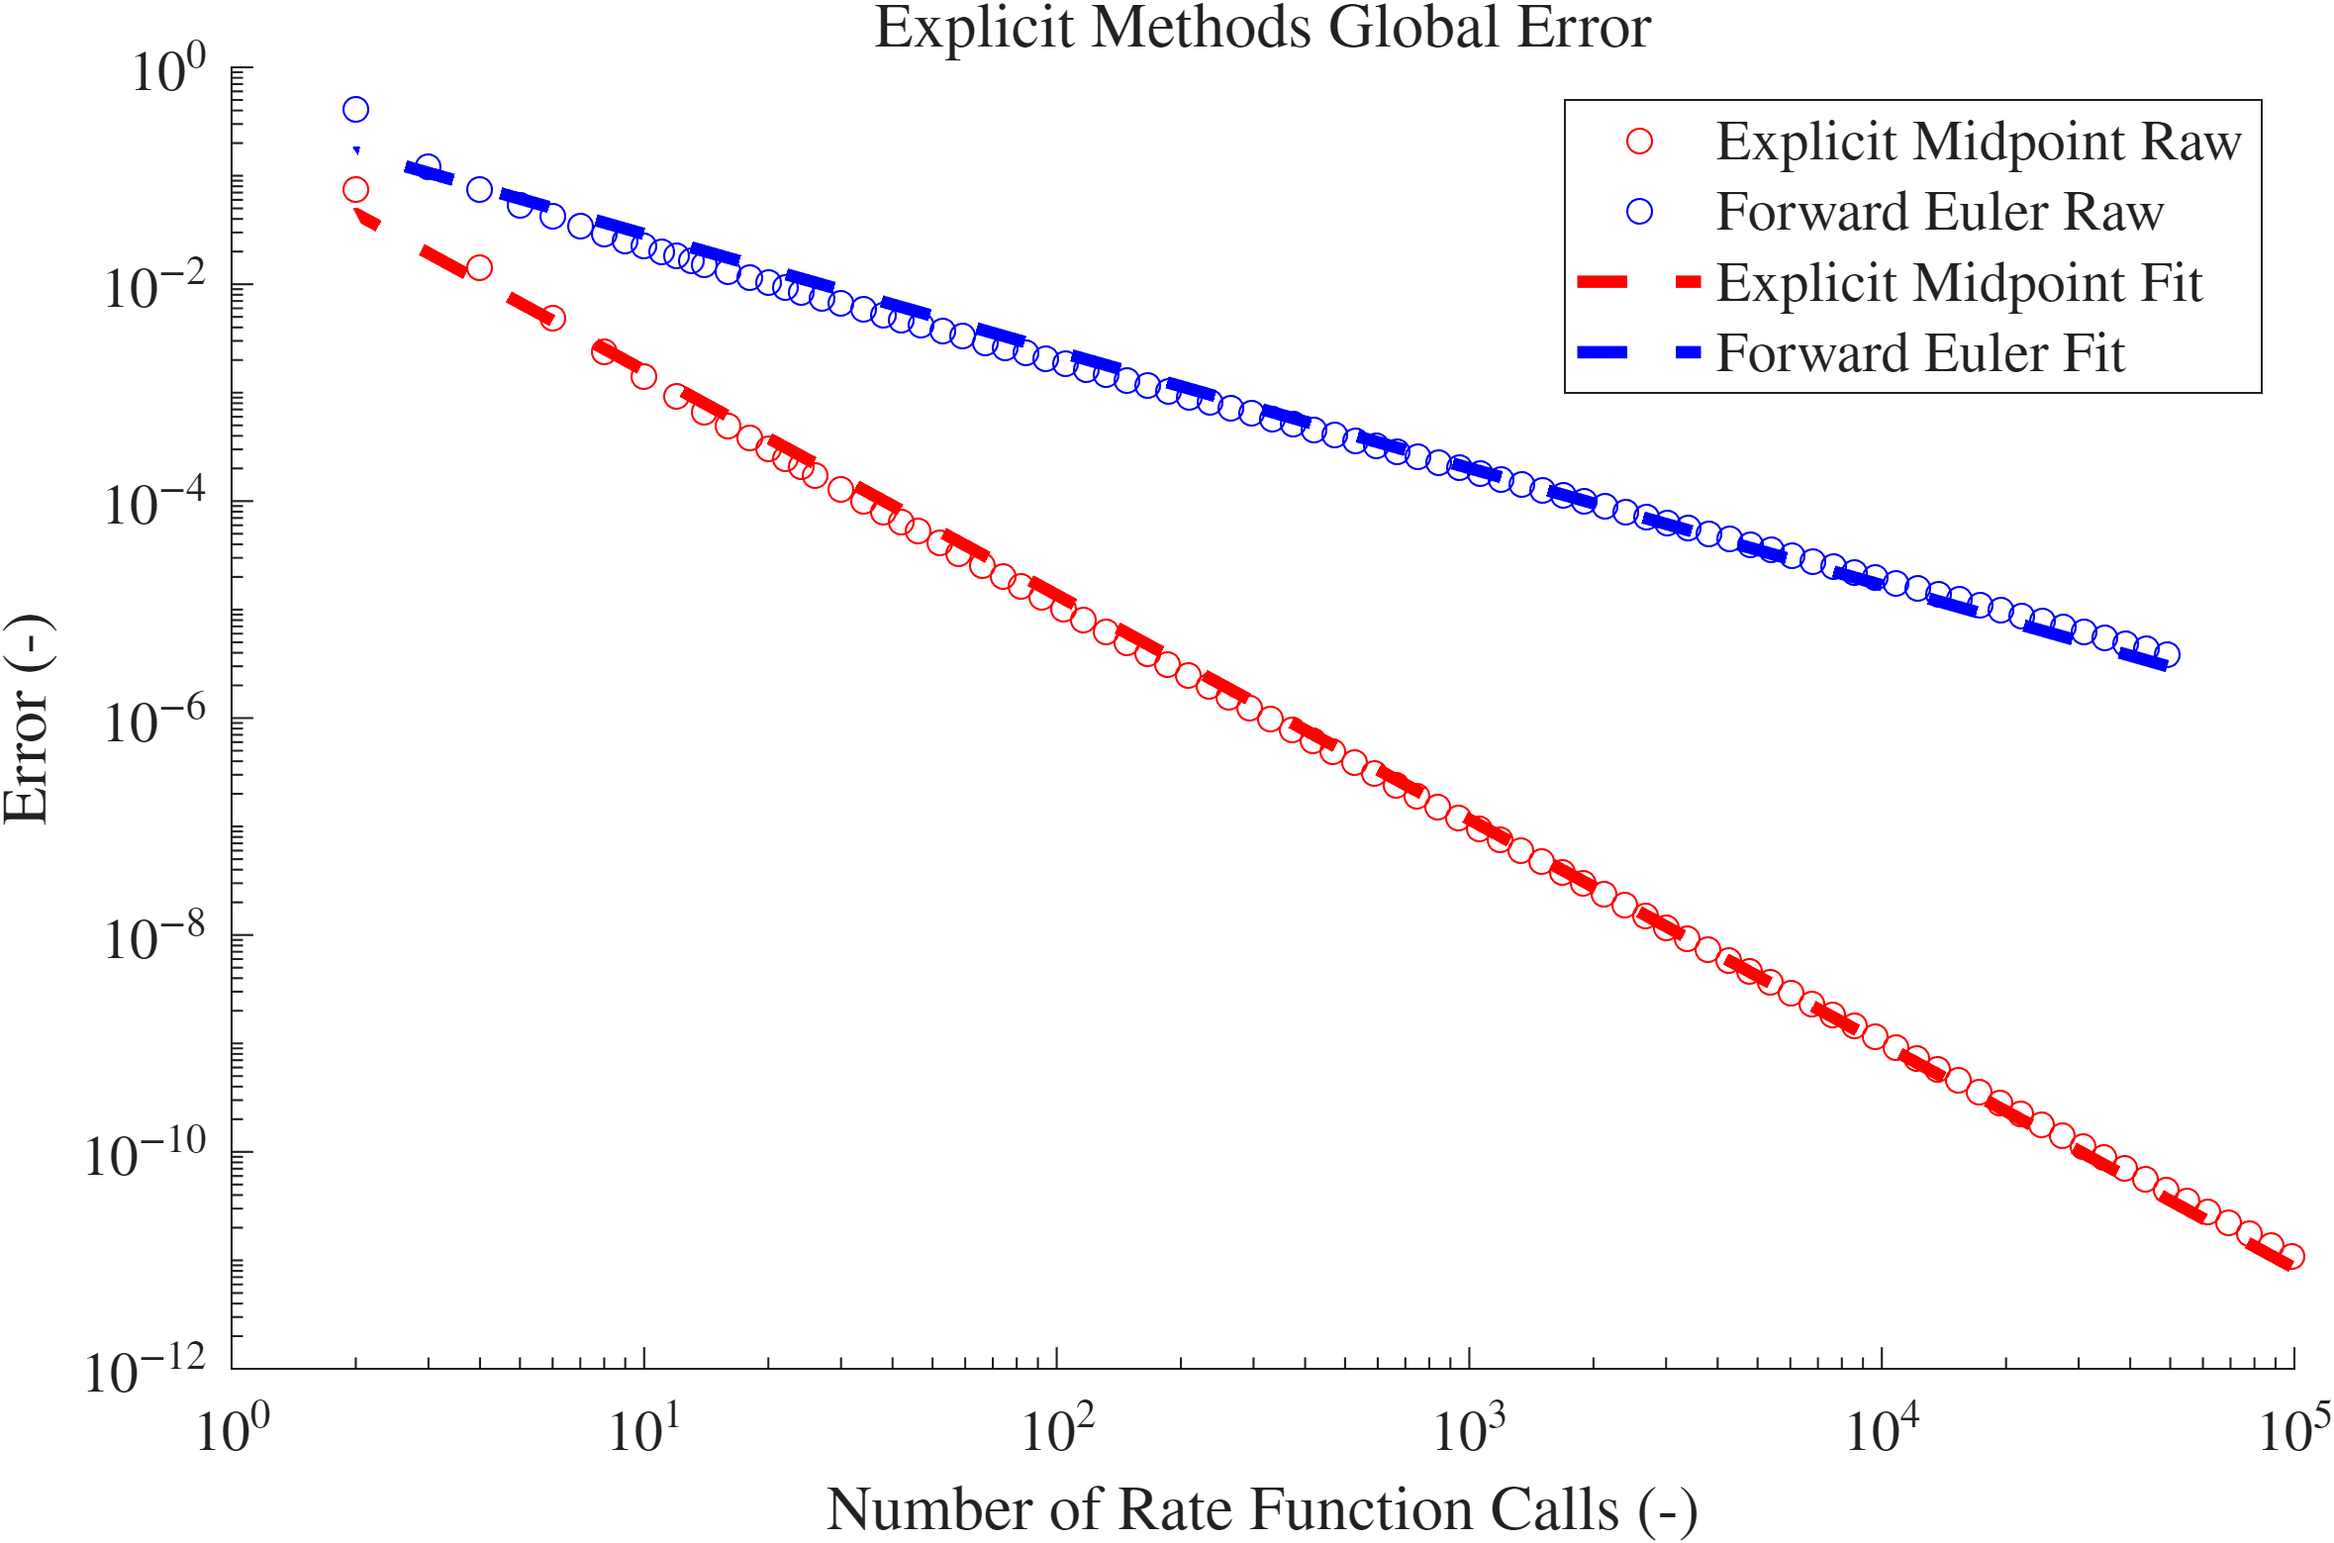
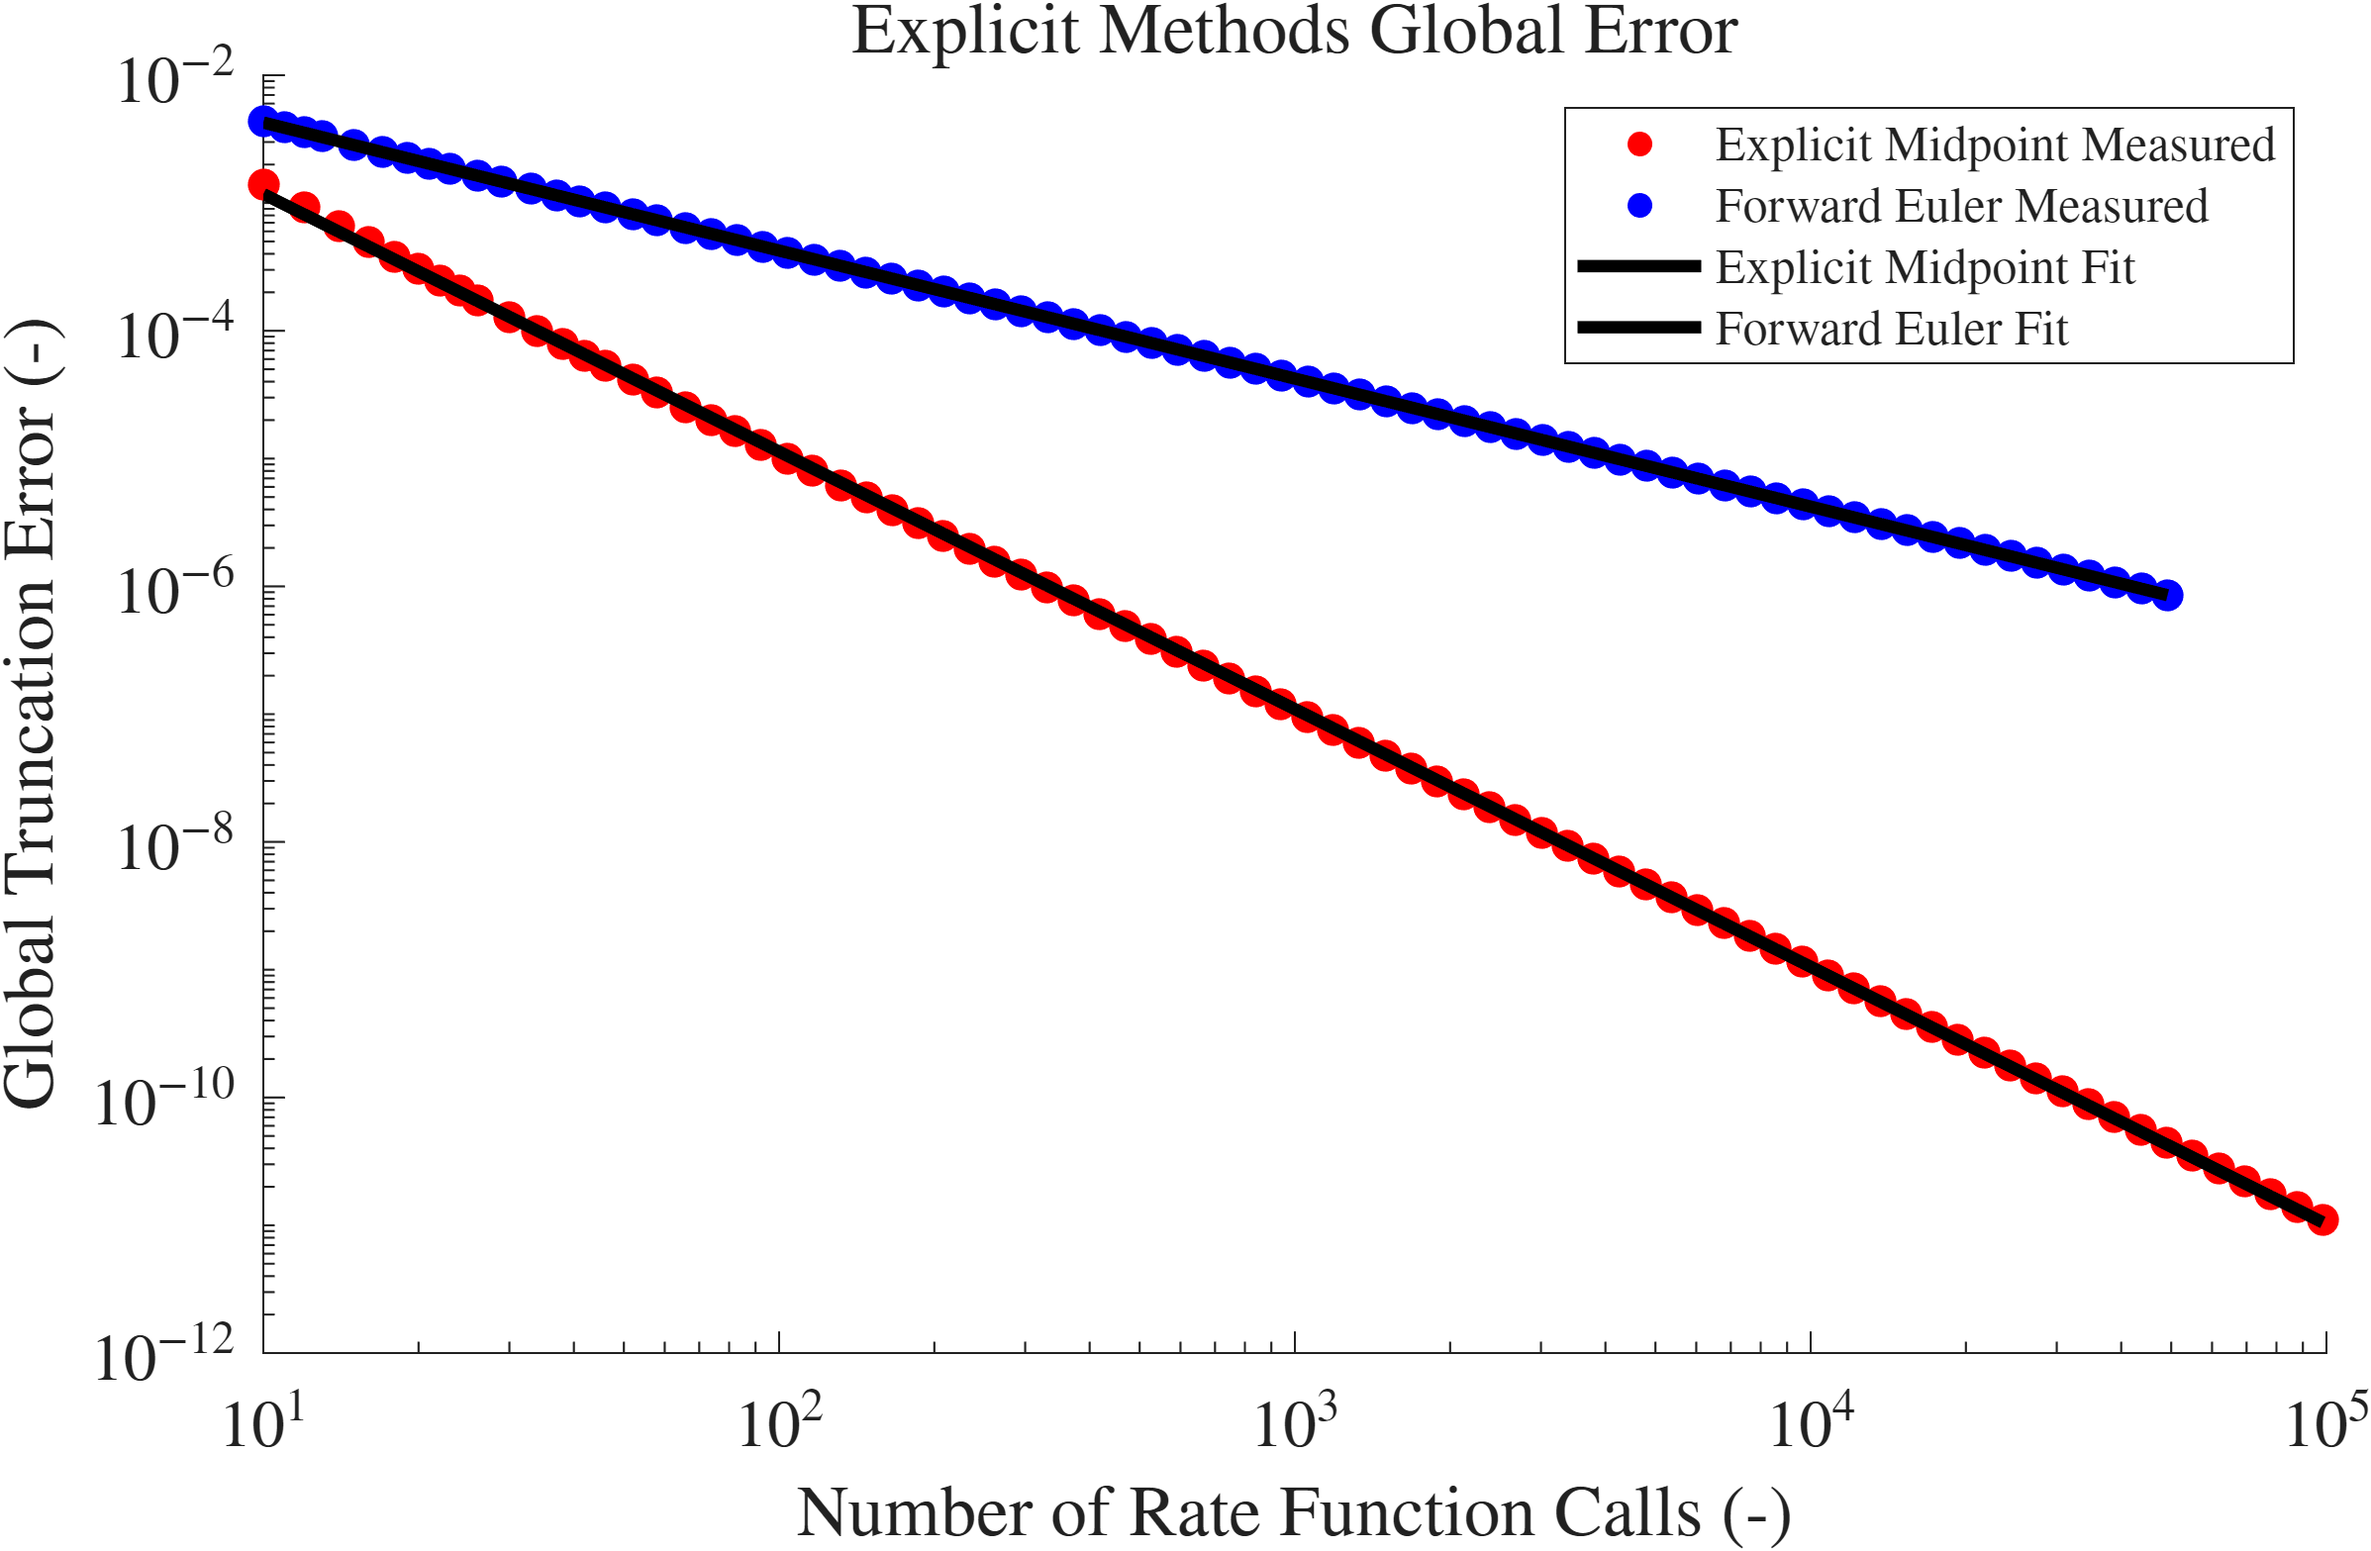
global trunc rate call fit line aaaaaa

diff --git a/global_trunc_error.m b/global_trunc_error.m
@@ -46,6 +46,15 @@ filtered_fe_err = func1_fe_err_list(1:filt_length);
 filtered_mp_err = func1_mp_err_list(1:filt_length);
 
 
+
+filtered_fe_nums = fe_evals_list(fe_evals_list >= 1e1);
+filt_fe_num_len = length(filtered_fe_nums);
+filtered_mp_nums = mp_evals_list(mp_evals_list >= 1e1);
+filt_mp_num_len = length(filtered_mp_nums);
+
+filt_mp_error_2 = func1_mp_err_list(1:filt_mp_num_len);
+filt_fe_error_2 = func1_fe_err_list(1:filt_fe_num_len);
+
 mp_p = polyfit(log(filtered_h_step), log(filtered_mp_err), 1)
 fe_p = polyfit(log(filtered_h_step), log(filtered_fe_err), 1)
 
@@ -55,17 +64,17 @@ f_func1_fe = exp(polyval(fe_p, log(filtered_h_step)));
 
 
 % 
-% func1_mp_p = polyfit(log(h_step), log(func1_mp_err_list), 1)
-% f_func1_mp = exp(polyval(func1_mp_p, log(h_step)));
-% 
-% func1_fe_p = polyfit(log(h_step), log(func1_fe_err_list), 1)
-% f_func1_fe = exp(polyval(func1_fe_p, log(h_step)));
-% 
-% mp_eval_p = polyfit(log(mp_evals_list), log(mp_err_list), 1)
-% f_mp = exp(polyval(mp_eval_p, log(mp_evals_list)));
-% 
-% fe_eval_p = polyfit(log(fe_evals_list), log(fe_err_list), 1)
-% f_fe = exp(polyval(fe_eval_p, log(fe_evals_list)));
+%func1_mp_p = polyfit(log(h_step), log(func1_mp_err_list), 1)
+%f_func1_mp = exp(polyval(func1_mp_p, log(h_step)));
+
+%func1_fe_p = polyfit(log(h_step), log(func1_fe_err_list), 1)
+%f_func1_fe = exp(polyval(func1_fe_p, log(h_step)));
+
+mp_eval_p = polyfit(log(filtered_mp_nums), log(filt_mp_error_2), 1)
+f_mp = exp(polyval(mp_eval_p, log(filtered_mp_nums)));
+
+fe_eval_p = polyfit(log(filtered_fe_nums), log(filt_fe_error_2), 1)
+f_fe = exp(polyval(fe_eval_p, log(filtered_fe_nums)));
 
 % func2_mp_p = polyfit(log(h_step), log(func2_mp_err_list), 1)
 % f_func2_mp = exp(polyval(func2_mp_p, log(h_step)));
@@ -75,45 +84,45 @@ f_func1_fe = exp(polyval(fe_p, log(filtered_h_step)));
 
 
 
+% figure();
+% scatter(filtered_h_step, filtered_mp_err, 60,'filled',"r")
+% hold on
+% scatter(filtered_h_step, filtered_fe_err,60,'filled',"b")
+% plot(filtered_h_step, f_func1_mp, '-', LineWidth=3, Color="k")
+% plot(filtered_h_step, f_func1_fe, '-', LineWidth=3, Color="k")
+% hold off
+% set(gca,'xscale','log')
+% set(gca,'yscale','log')
+% legend(["Explicit Midpoint Measured","Forward Euler Measured", "Explicit Midpoint Fit", "Forward Euler Fit"], Location = "northwest", Interpreter="latex", FontSize=14)
+% xlabel("Time Step - $h$ (-)", Interpreter="latex", FontSize=14)
+% ylabel("Global Truncation Error (-)", Interpreter="latex", FontSize=14)
+% axis([0 4*pi -1.5 1.5])
+% title("Global Truncation Error vs Step Size - Explicit Methods", Interpreter='latex', FontSize=18)
+% ax = gca;
+% ax.FontSize = 16;
+% ax.XAxis.TickLabelInterpreter = 'Latex';
+% ax.YAxis.TickLabelInterpreter = 'Latex';
+% exportgraphics(gca, 'plots/explicit_methods_global_error_testfunc1.png', 'Resolution',300)
+
 figure();
-scatter(filtered_h_step, filtered_mp_err, 60,'filled',"r")
+scatter(filtered_mp_nums, filt_mp_error_2, 60, 'filled', "r")
 hold on
-scatter(filtered_h_step, filtered_fe_err,60,'filled',"b")
-plot(filtered_h_step, f_func1_mp, '-', LineWidth=3, Color="k")
-plot(filtered_h_step, f_func1_fe, '-', LineWidth=3, Color="k")
+scatter(filtered_fe_nums, filt_fe_error_2, 60, 'filled',"b")
+plot(filtered_mp_nums, f_mp, '-', LineWidth=3, Color="k")
+plot(filtered_fe_nums, f_fe, '-', LineWidth=3, Color="k")
 hold off
 set(gca,'xscale','log')
 set(gca,'yscale','log')
-legend(["Explicit Midpoint Measured","Forward Euler Measured", "Explicit Midpoint Fit", "Forward Euler Fit"], Location = "northwest", Interpreter="latex", FontSize=14)
-xlabel("Time Step - $h$ (-)", Interpreter="latex", FontSize=14)
+legend(["Explicit Midpoint Measured","Forward Euler Measured", "Explicit Midpoint Fit", "Forward Euler Fit"], Location = "northeast", Interpreter="latex", FontSize=12)
+xlabel("Number of Rate Function Calls (-)", Interpreter="latex", FontSize=14)
 ylabel("Global Truncation Error (-)", Interpreter="latex", FontSize=14)
-% axis([0 4*pi -1.5 1.5])
-title("Global Truncation Error vs Step Size - Explicit Methods", Interpreter='latex', FontSize=18)
+%axis([0 4*pi -1.5 1.5])
+title("Explicit Methods Global Error", Interpreter='latex', FontSize=18)
 ax = gca;
 ax.FontSize = 16;
 ax.XAxis.TickLabelInterpreter = 'Latex';
 ax.YAxis.TickLabelInterpreter = 'Latex';
-exportgraphics(gca, 'plots/explicit_methods_global_error_testfunc1.png', 'Resolution',300)
-
-% figure();
-% scatter(mp_evals_list, func1_mp_err_list, "r")
-% hold on
-% scatter(fe_evals_list, func1_fe_err_list,"b")
-% plot(mp_evals_list, f_mp, '--', LineWidth=3, Color="r")
-% plot(fe_evals_list, f_fe, '--', LineWidth=3, Color="b")
-% hold off
-% set(gca,'xscale','log')
-% set(gca,'yscale','log')
-% legend(["Explicit Midpoint Raw","Forward Euler Raw", "Explicit Midpoint Fit", "Forward Euler Fit"], Location = "northeast", Interpreter="latex", FontSize=14)
-% xlabel("Number of Rate Function Calls (-)", Interpreter="latex", FontSize=14)
-% ylabel("Error (-)", Interpreter="latex", FontSize=14)
-% % axis([0 4*pi -1.5 1.5])
-% title("Explicit Methods Global Error", Interpreter='latex', FontSize=16)
-% ax = gca;
-% ax.FontSize = 14;
-% ax.XAxis.TickLabelInterpreter = 'Latex';
-% ax.YAxis.TickLabelInterpreter = 'Latex';
-% % exportgraphics(gca, 'plots/explicit_methods_global_error__func_calls_testfunc1.png', 'Resolution',300)
+exportgraphics(gca, 'plots/explicit_methods_global_error__func_calls_testfunc1.png', 'Resolution',300)
 
 
 
